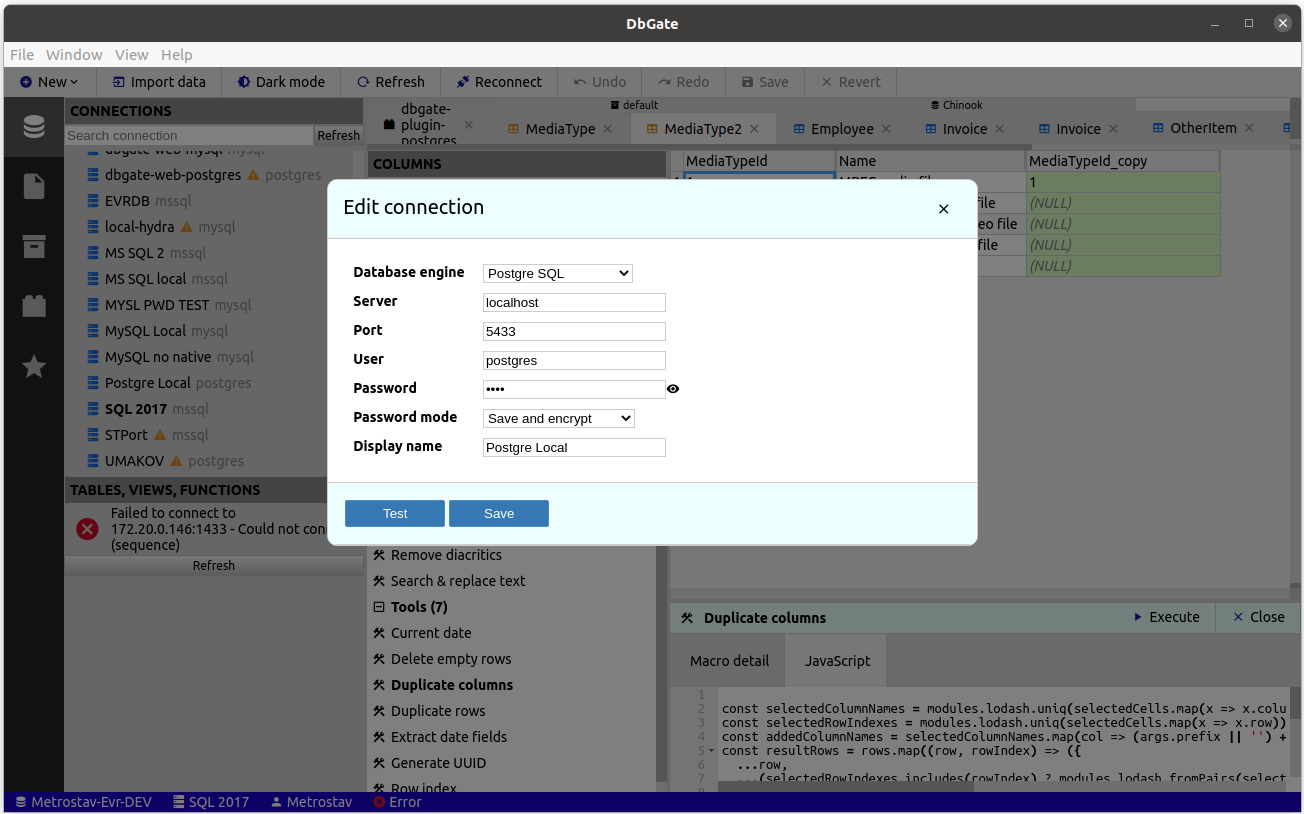
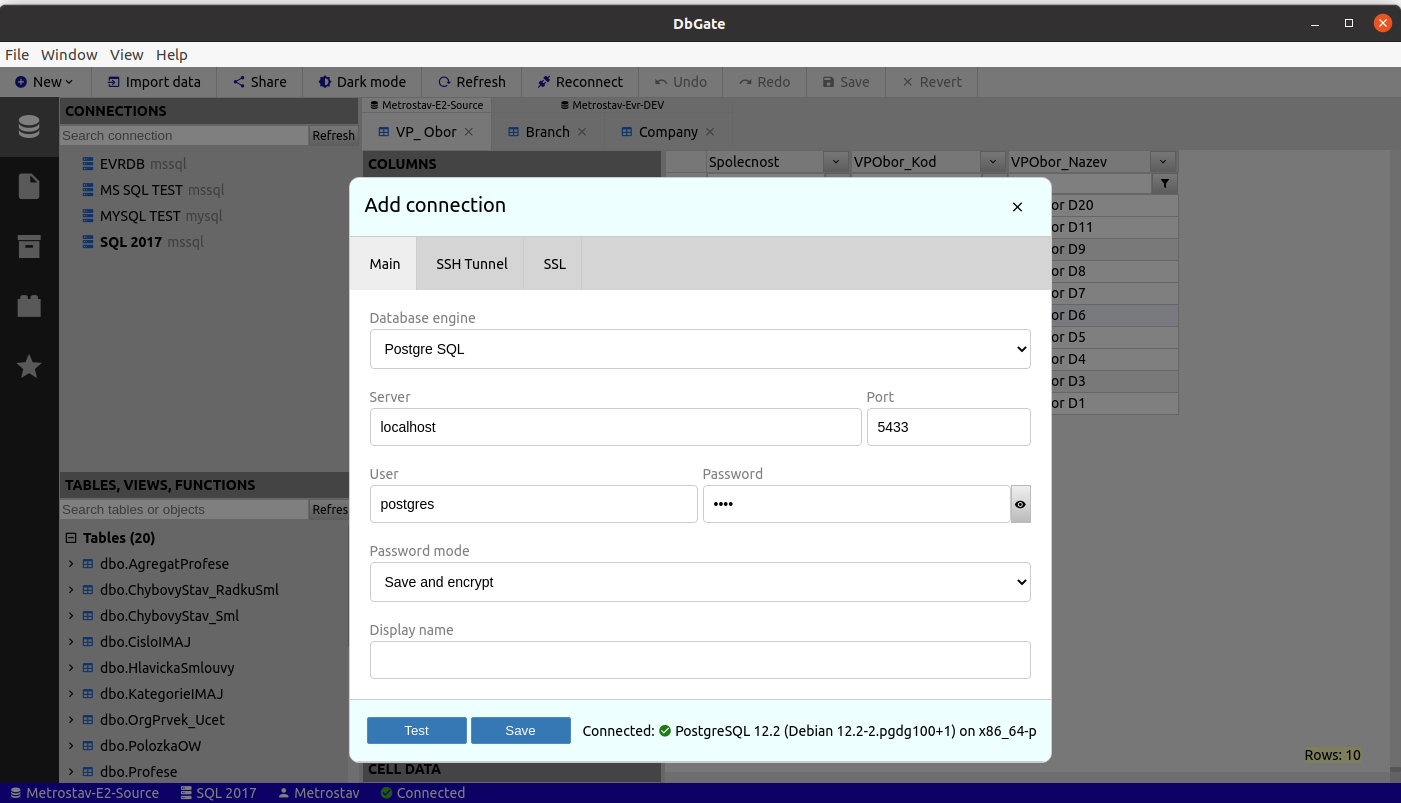
new version on web

diff --git a/about.md b/about.md
@@ -5,15 +5,20 @@ layout: page
 permalink: /about/
 ---
 
-I started to develop DbGate at the beginning of 2020. Main reason was, that I switched from Windows to Linux, where it was quite hard to find any usable database tool. Before I have created database tools DatAdmin and DbMouse, which were commercial products. DbGate takes the best from them, and offers it under opensource MIT license.
+I started to develop DbGate at the beginning of 2020. Main reason was, that I switched from Windows to Linux, where it was quite hard to find any usable database tool. 
+
+# DbGate goals
+* Simple, but powerful. One toolbar, no milions of icons without description. Heavy use of context menu
+* Should runs everywhere - Windows, Linux, Mac, web browser, maybe also mobile web in future
+* Scriptable, using dbgate [nodejs packages](https://www.npmjs.com/package/dbgate-api)
+
+I have experiences with commercial database tools DatAdmin and DbMouse. DbGate tries to take the best and only the best from them, and offers it under opensource MIT license.
 
 # About author
-
-My name is Jan Prochazka. I am from Czech Republich, I live in Prague. I was specialized to realtime computation software, which used heavy Miccrosoft SQL Server. Now I work mainly with JavaScript and modern techology stack around it.
+My name is Jan Prochazka, I live in Czech Republic. I was specialized to realtime computation software, which used heavy Miccrosoft SQL Server. Now I work mainly with JavaScript and modern techology stack around it.
 
 # Wrote about us
 You can see, what wrote about DbGate [Softpedia](https://www.softpedia.com/get/Internet/Servers/Database-Utils/DbGate.shtml) software catalog portal
 
 # Feedback
-
 Any feedback is welcome, please create issue on [GitHub](https://github.com/dbgate/dbgate/issues/new/choose)

diff --git a/_posts/2021-02-15-dbgate-in-npm-repository.md b/_posts/2021-02-15-dbgate-in-npm-repository.md
@@ -1,0 +1,27 @@
+---
+layout: post
+title:  DbGate is released on NPM repository + added SSH tunnelling
+date:   2021-02-01 20:00:00
+categories: development
+# image: /assets/screenshots/connection.png
+---
+
+DbGate is now available as [NPM package](https://www.npmjs.com/package/dbgate) . You can install it directly as NPM package. This is way, how to run **WEB** version of DbGate, when you have no Docker available.
+
+Other useful NPM package is [dbgate-api](https://www.npmjs.com/package/dbgate-api), which can be used for running scripts exported from DbGate, eg. exporting table data to CSV or Excel.
+
+## SSH tunnel
+Other big improvement of DbGate is SSH tunneling feature. It allows connecting to database eg. on production server, which is not exposed to public internet.
+
+## Connection dialog redesign
+Connection dialog is now a bit more user friendly and much more better looking.
+
+## SQL Editor context menu
+SQL editor now contains context menu. Some functions where hardly accessible before this small improvement (eg. INSERT SQL JOIN wizard).
+
+## Bugfixes
+There were some bugfixes, must important is fixed exports & imports in Linux Snap distribution (and possibly on some nonstandard environments)
+
+See [changelog](https://github.com/dbgate/dbgate/blob/master/CHANGELOG.md) for full list of changes
+
+![screenshot](/assets/screenshots/joinwizard.png)

diff --git a/_features/database.md b/_features/database.md
@@ -12,6 +12,8 @@ features_left: true
   * MySQL
   * PostgreSQL
   * SQL Server (under windows allows Windows authentification)
+* Support connection over SSH tunnel, for accessing production databases behind firewall
+* Support SSL
 * Allows work with multiple database connections simultaneously
 * Every opened tab (eg. query, table data, query desinger) is marked with database, to which it belongs
 * Stored encrypted password
